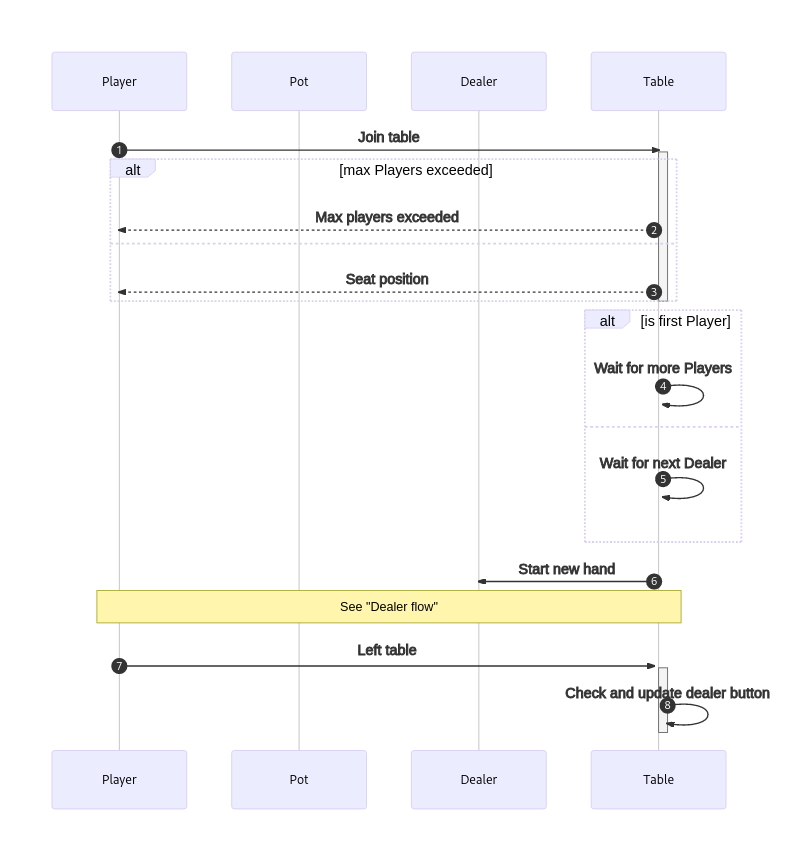
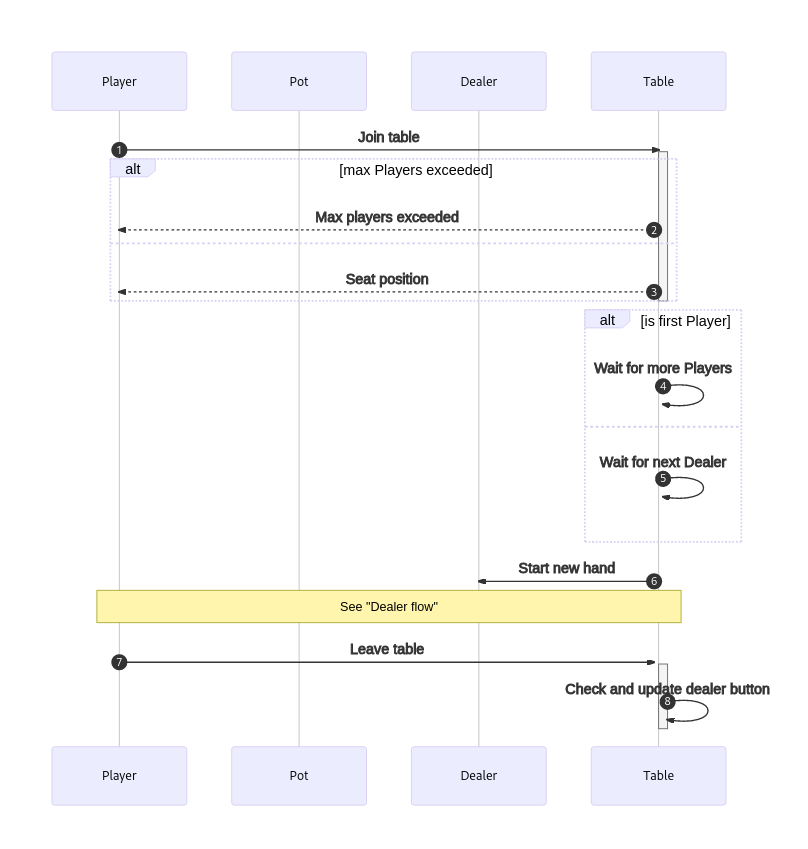
Update FLOWS

diff --git a/docs/FLOWS.mermaid.md b/docs/FLOWS.mermaid.md
@@ -34,7 +34,7 @@ sequenceDiagram
     Table->>Dealer: Start new hand
     Note over Player,Table: See "Dealer flow"
 
-    Player->>+Table: Left table
+    Player->>+Table: Leave table
     Table->>-Table: Check and update dealer button
 ```
 
